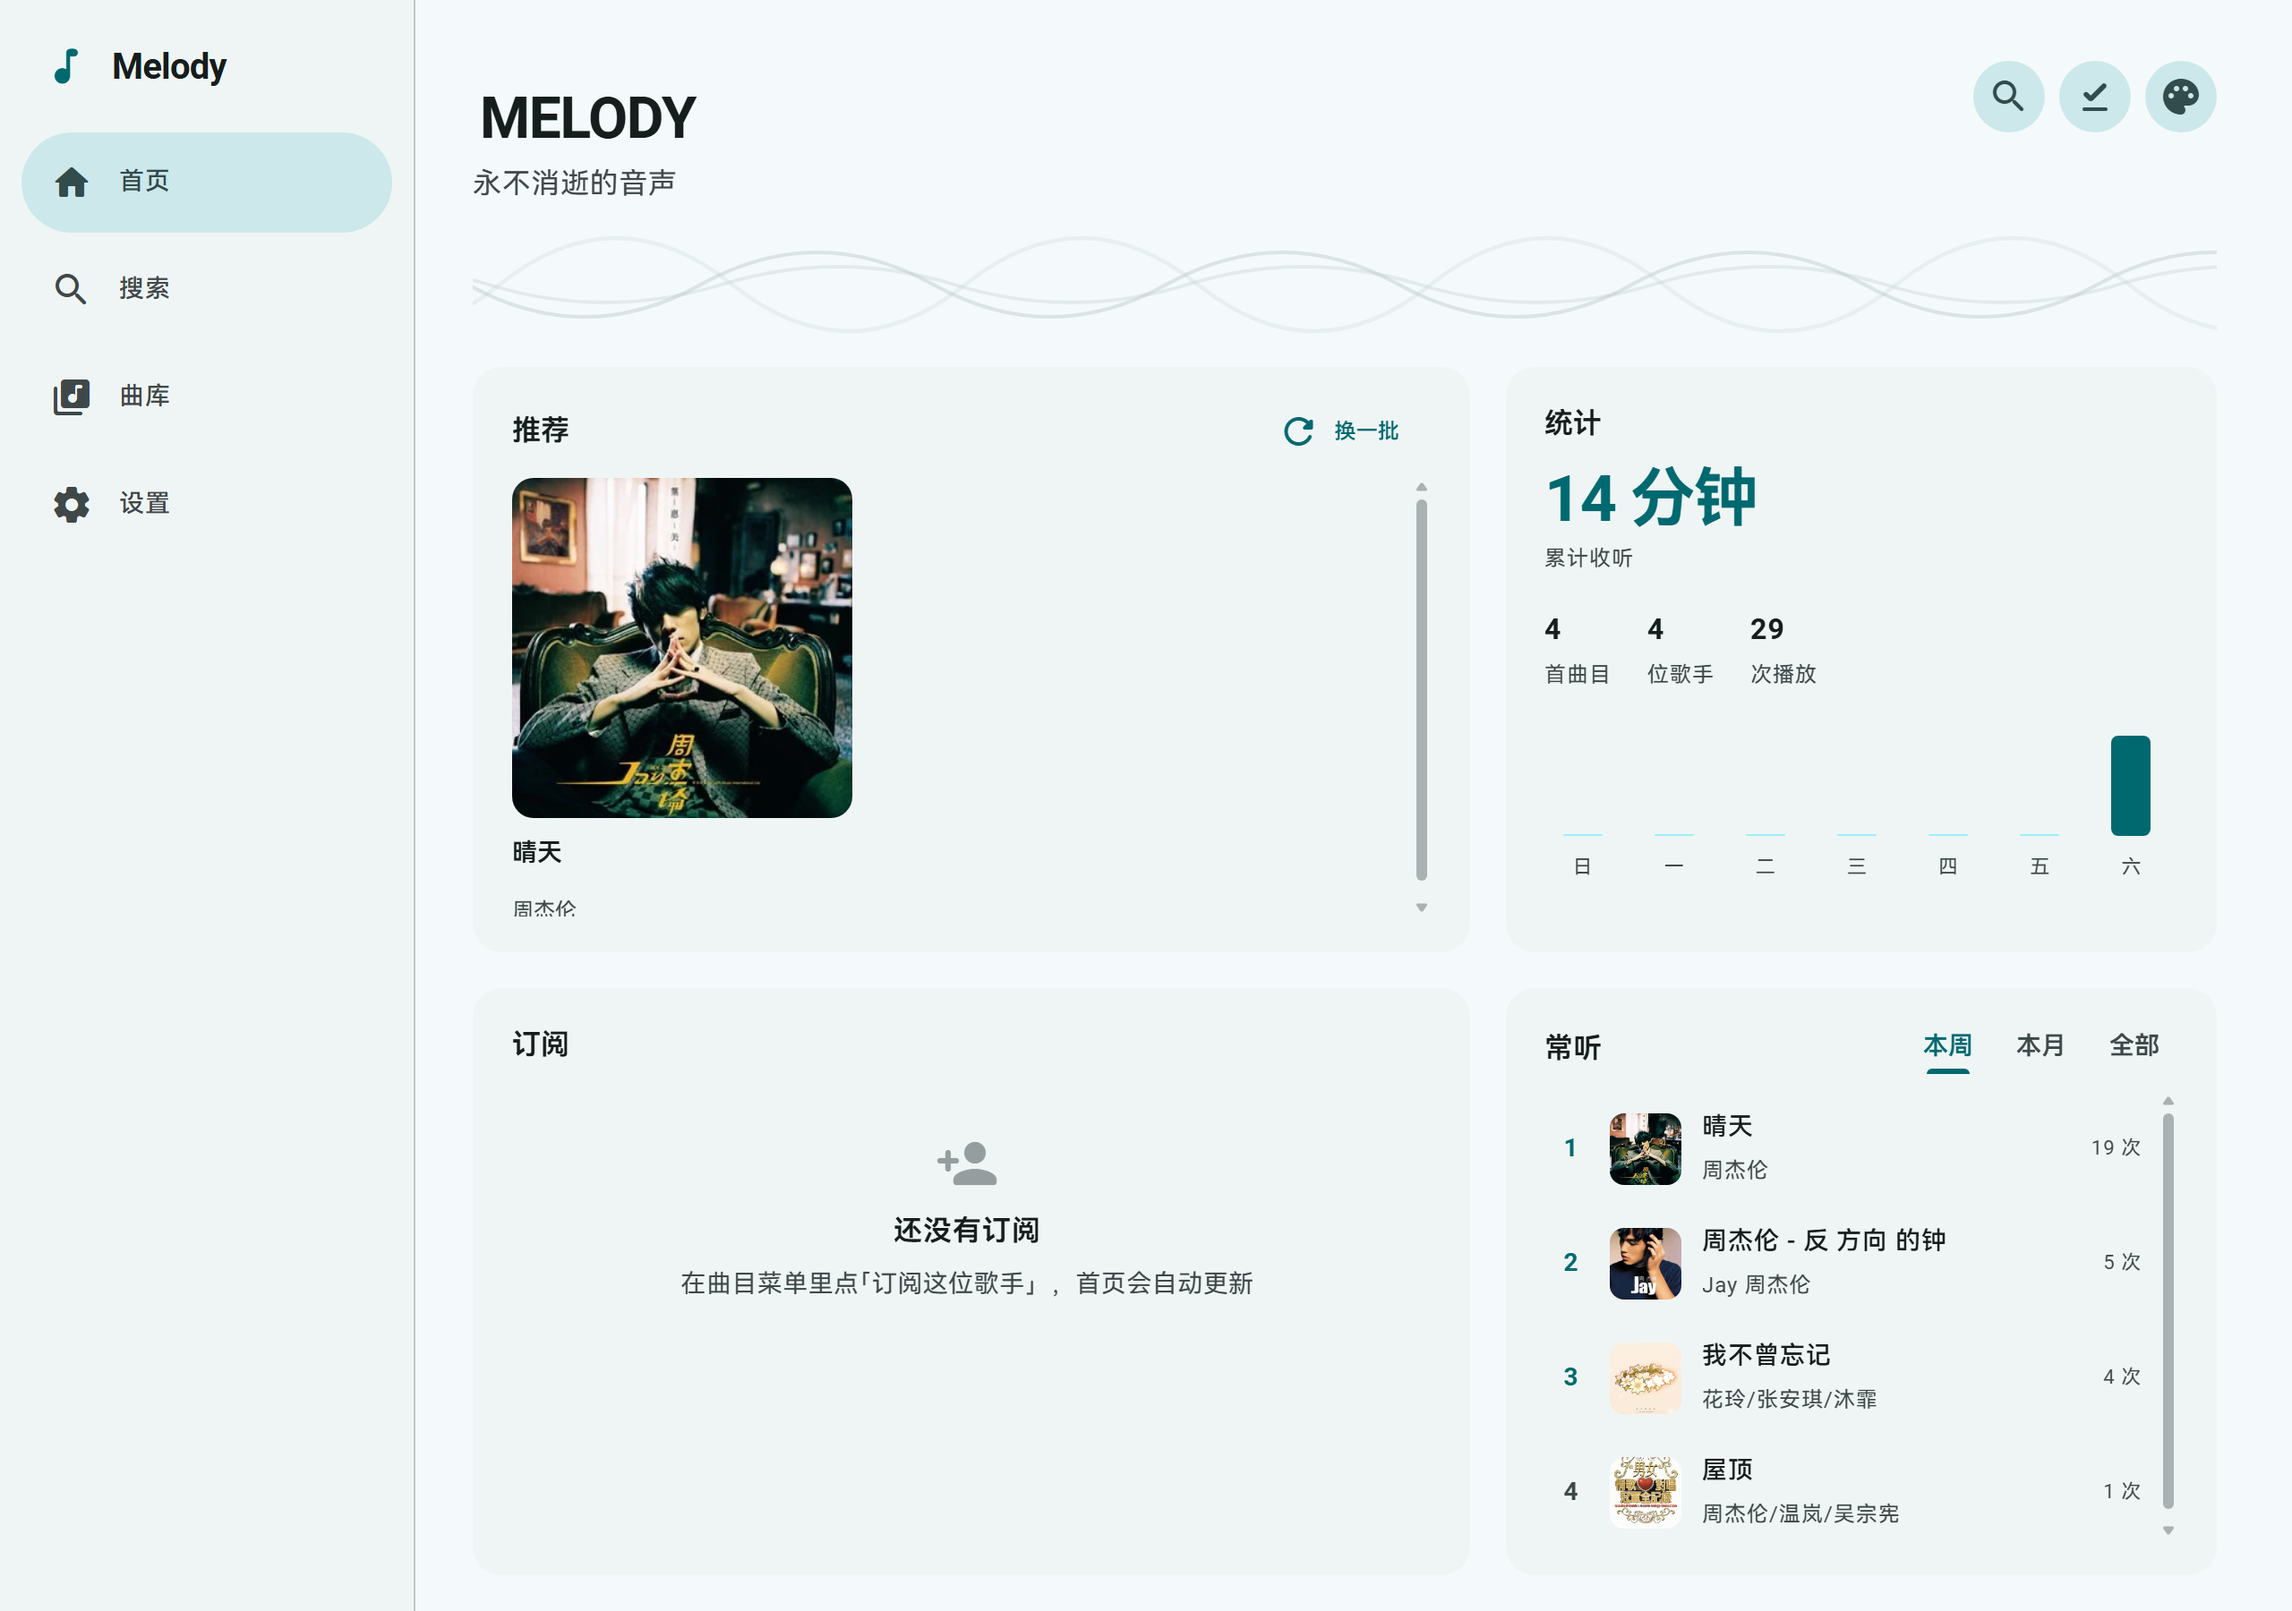
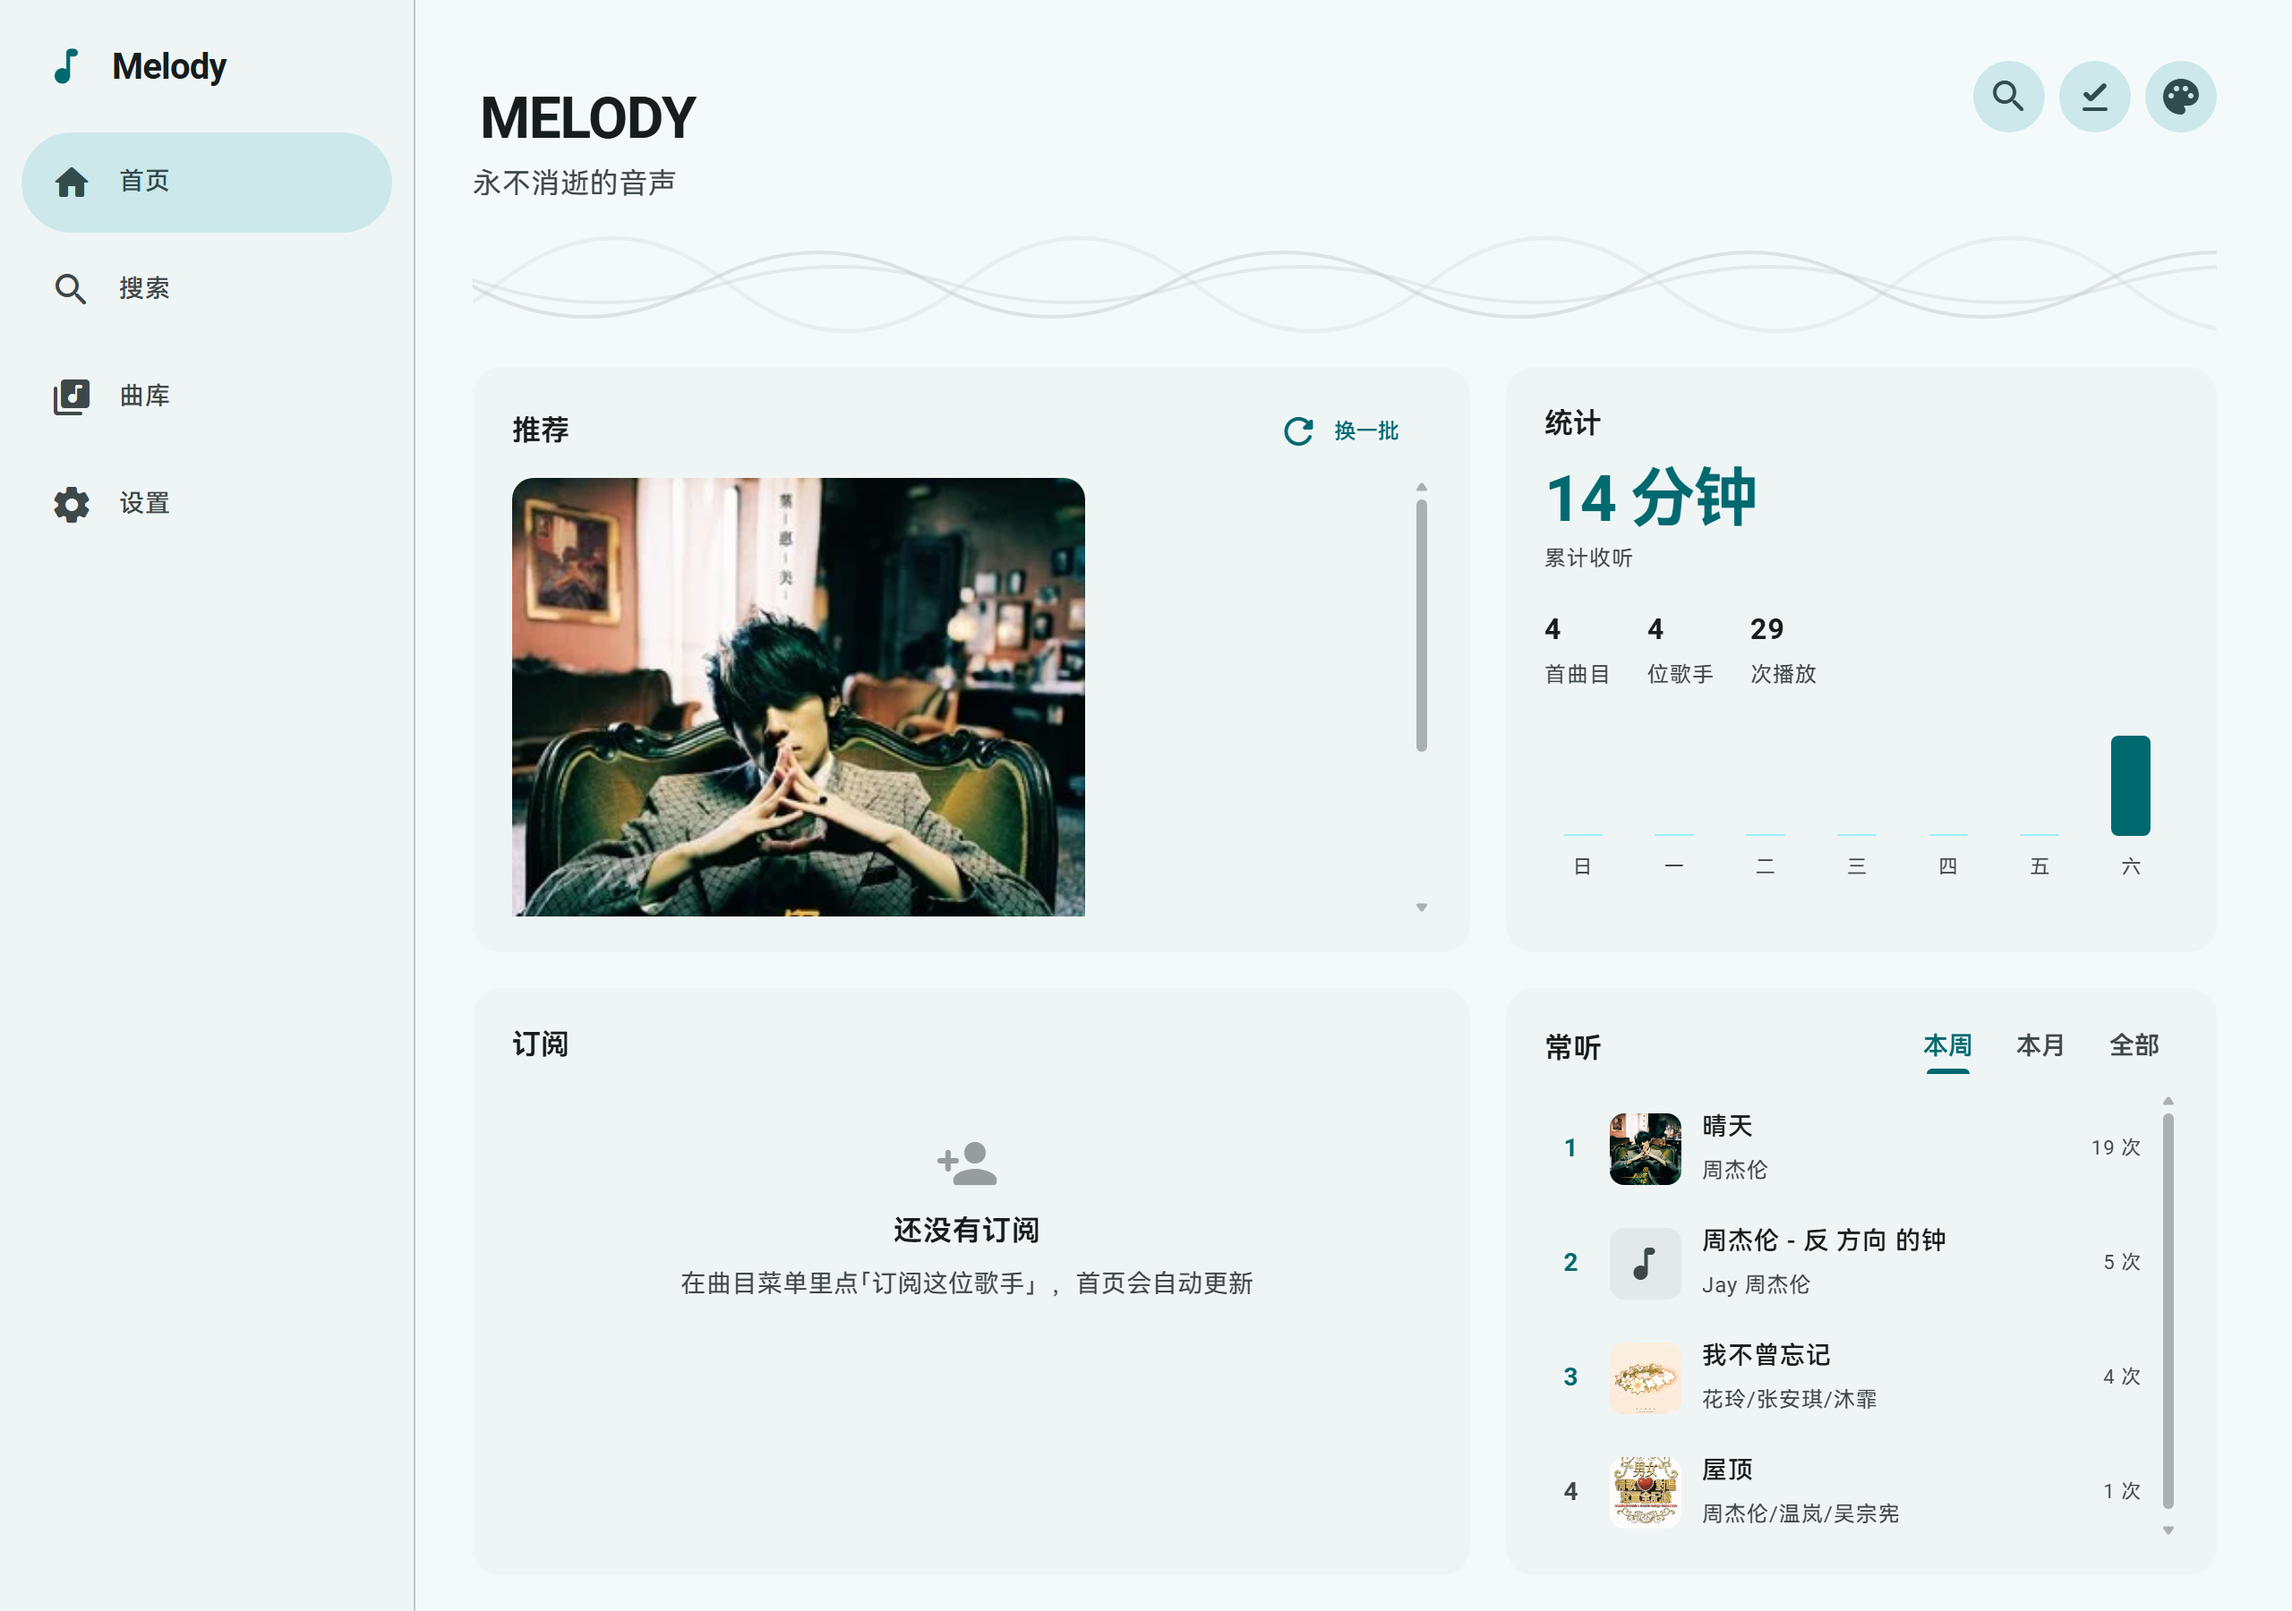
首页标题再放大；封面网格改为按板块宽度自适应（180–320px）

Changed region(s): [[0.2188, 0.28, 0.5, 0.5911], [0.6875, 0.7467, 0.75, 0.8089], [0.5938, 0.4667, 0.625, 0.5289]]

diff --git a/css/app.css b/css/app.css
@@ -760,8 +760,8 @@ body[data-paused="true"] .list-item__playing i { animation-play-state: paused; }
 }
 .home-head__title {
   margin: 0;
-  font-size: clamp(2.5rem, 7.2vw, 3.5rem);
-  font-weight: 700; letter-spacing: -.035em; line-height: 1.02;
+  font-size: clamp(3rem, 9vw, 4.5rem);
+  font-weight: 700; letter-spacing: -.04em; line-height: 1;
 }
 .home-head__tagline {
   margin-top: 6px;
@@ -817,8 +817,8 @@ body[data-paused="true"] .list-item__playing i { animation-play-state: paused; }
 }
 
 /* 媒体磁贴 */
-.media-grid { display: grid; grid-template-columns: repeat(auto-fit, minmax(132px, 1fr)); gap: 14px; }
-.media { max-width: 190px; }
+.media-grid { display: grid; grid-template-columns: repeat(auto-fit, minmax(180px, 1fr)); gap: 14px; }
+.media { max-width: 320px; }
 .media {
   display: flex; flex-direction: column; gap: 8px; min-width: 0;
   border: 0; background: none; padding: 0; cursor: pointer; text-align: left;
@@ -1110,7 +1110,7 @@ img[data-cover].is-missing { opacity: 0; }
 
 /* 订阅：每个歌手一组，组内横向排列 */
 .album-row { display: flex; gap: 12px; overflow-x: auto; overflow-y: hidden; padding: 2px 2px 8px; }
-.album-row .media { flex: 1 1 0; min-width: 112px; max-width: 172px; }
+.album-row .media { flex: 1 1 0; min-width: 120px; max-width: 210px; }
 .sub-artist + .sub-artist { margin-top: 18px; }
 
 /* 自绘滚动条 */
